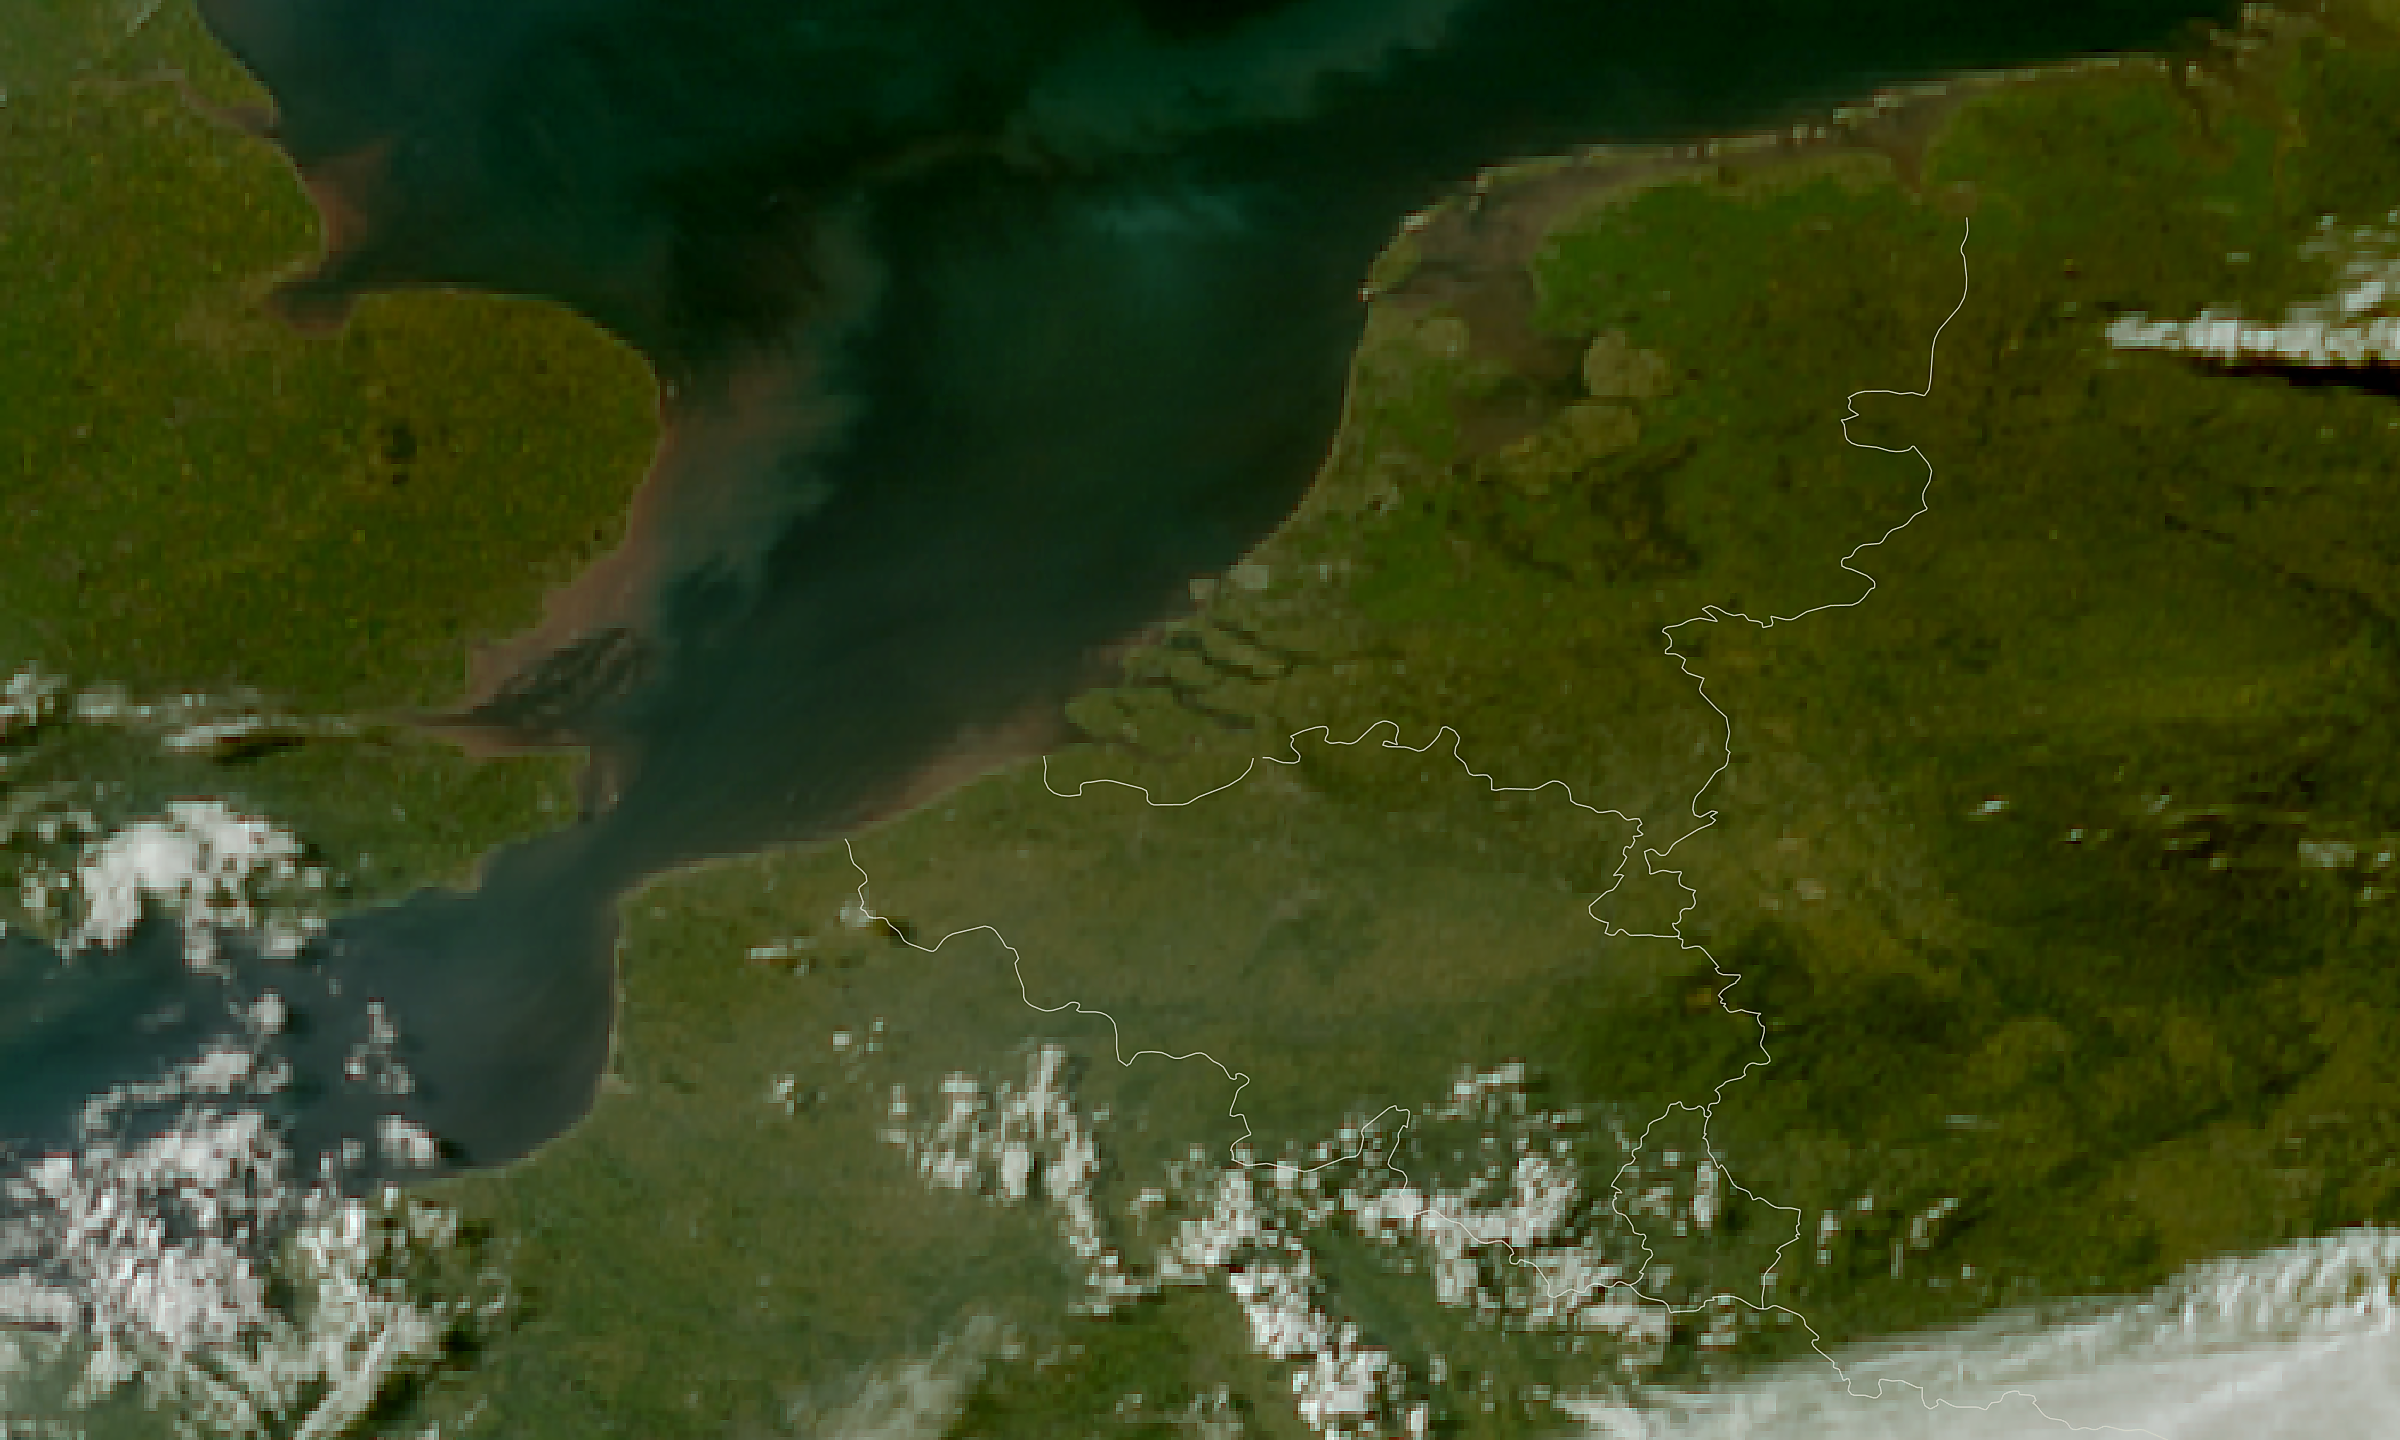
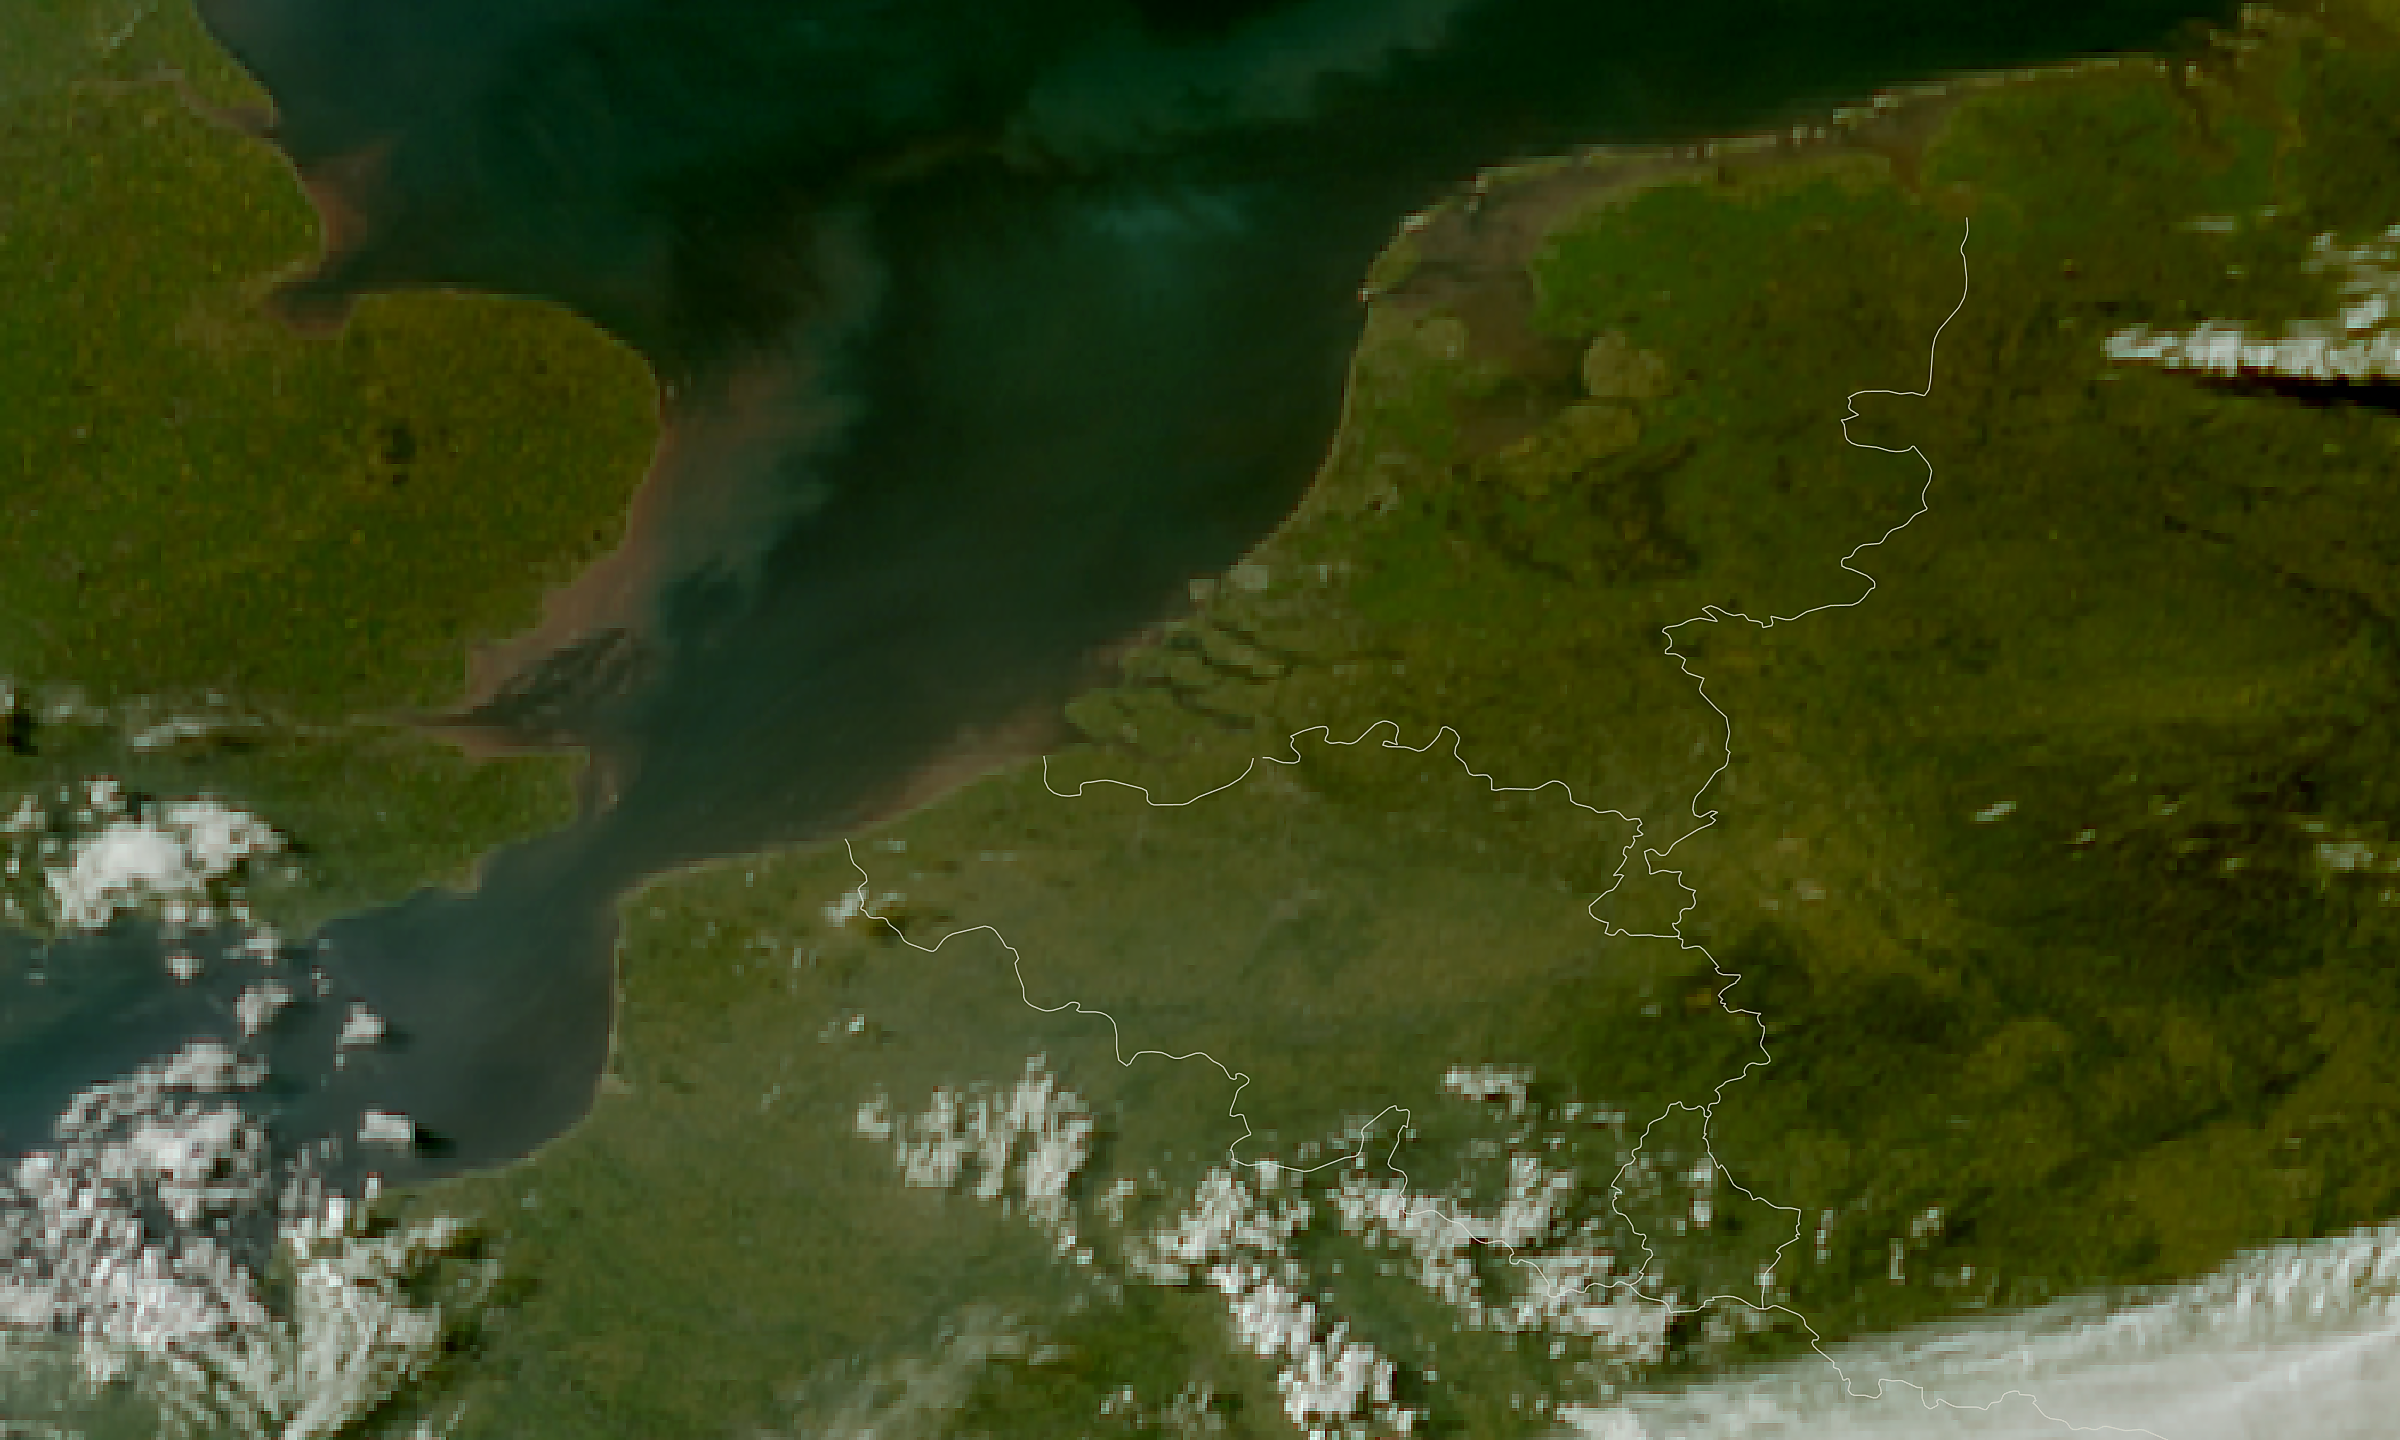
MTG Benelux satellietbeeld update 2026-04-28 19:30

diff --git a/mtg_benelux_meta.js b/mtg_benelux_meta.js
@@ -1,2 +1,2 @@
 const MTG_BENELUX_PRODUCT = "mtg_fd:rgb_truecolour";
-const MTG_BENELUX_TIJD = "2026-04-28T16:50:00Z";
+const MTG_BENELUX_TIJD = "2026-04-28T17:10:00Z";
